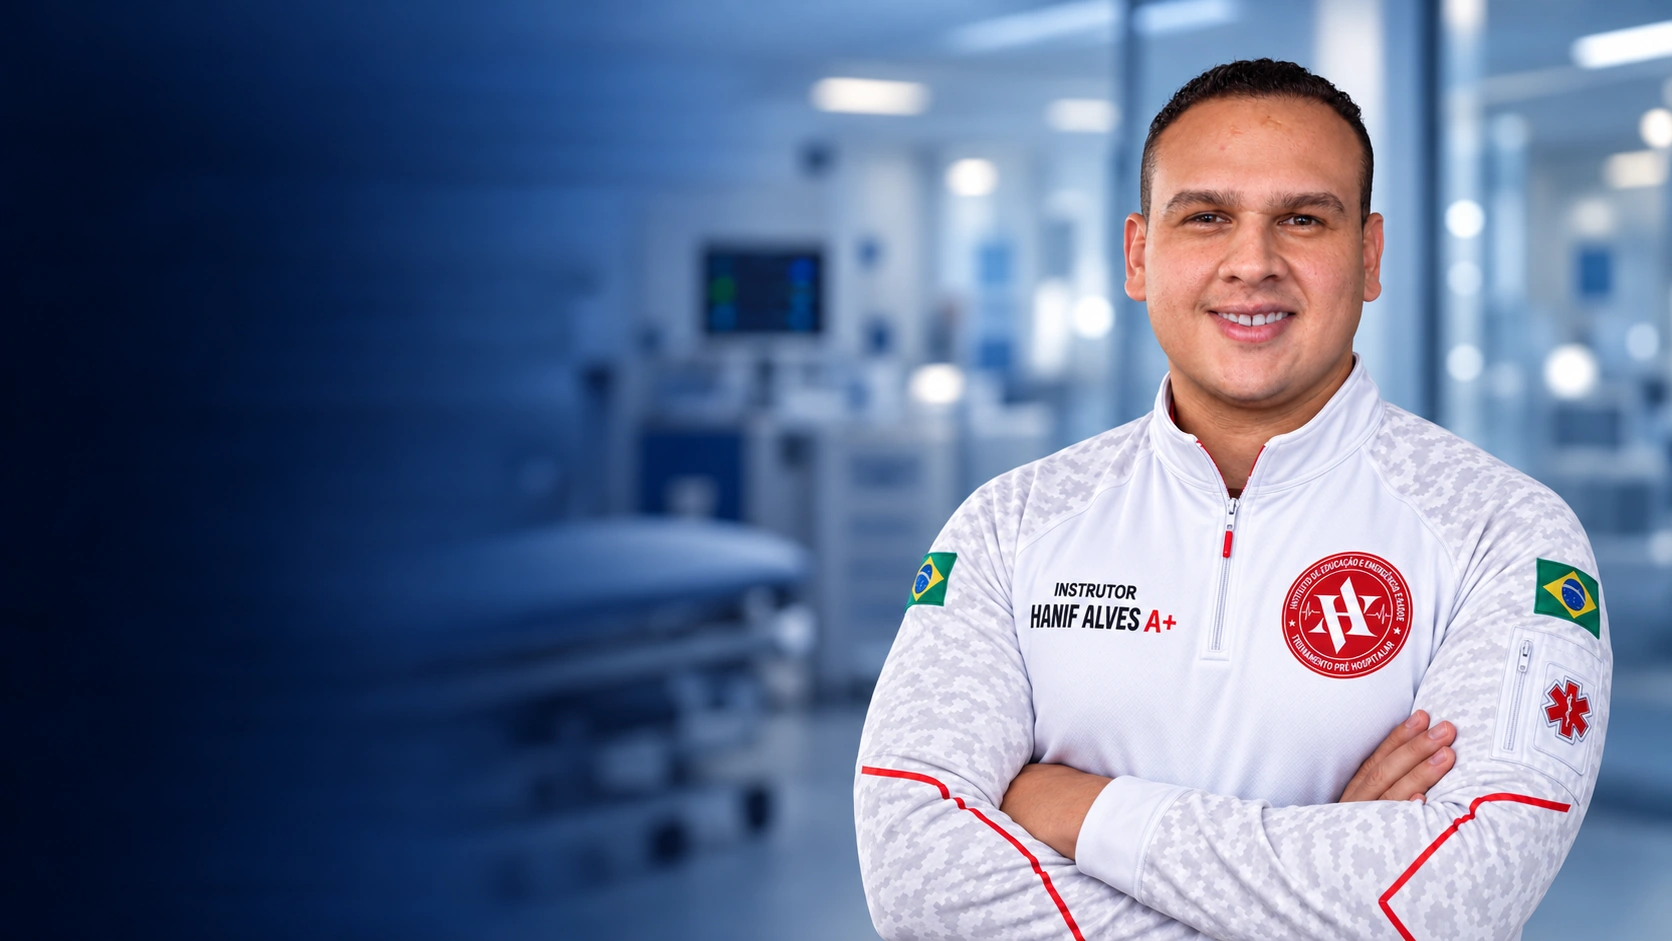
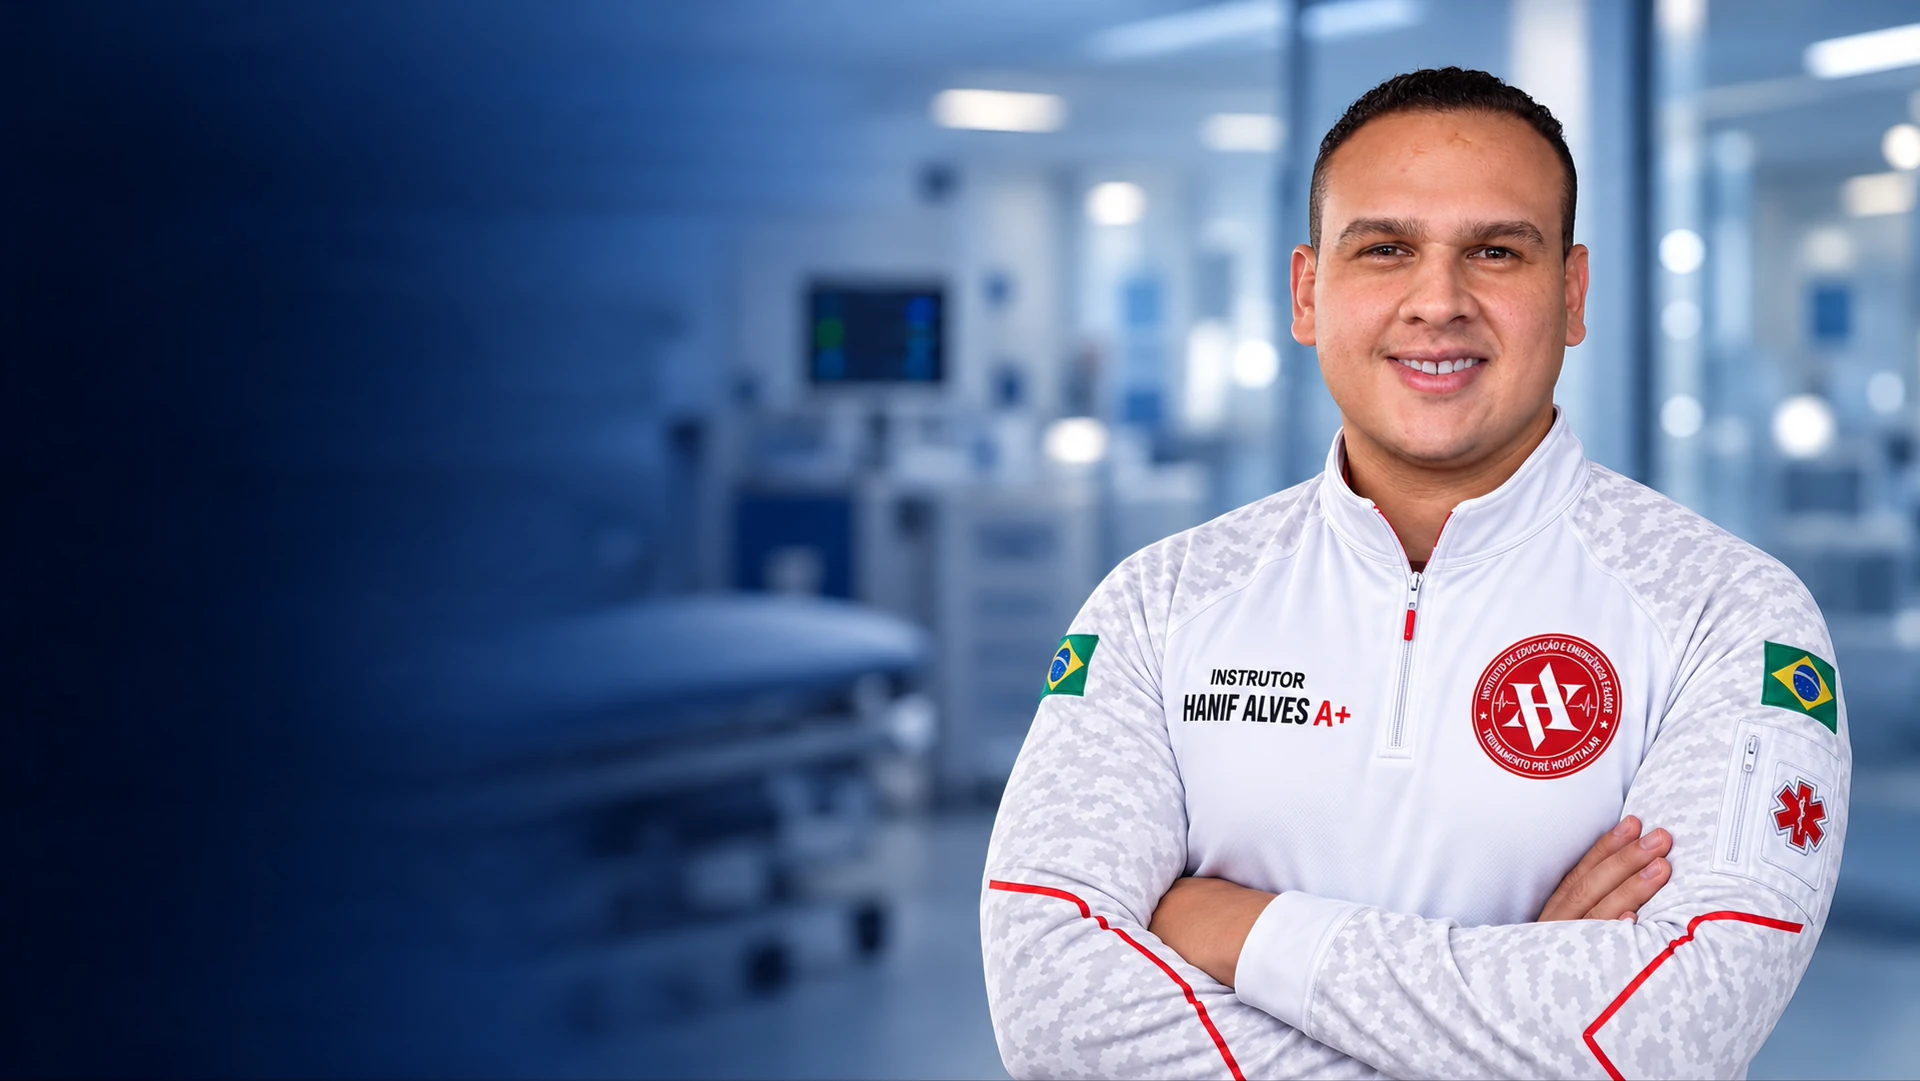
feat: imagem do Hero desktop em alta resolução (1920/3840) sem marca d'água

diff --git a/src/components/site/HeroMedia.jsx b/src/components/site/HeroMedia.jsx
@@ -4,6 +4,8 @@ import { useEffect, useRef, useState } from "react";
 const DESKTOP = {
   video: null,
   poster: "/media/hero/hero-desktop-poster.webp",
+  // Cada tela baixa só o tamanho que precisa (monitor 4K/Retina pega a versão de 3840 px).
+  posterSet: "/media/hero/hero-desktop-poster.webp 1920w, /media/hero/hero-desktop-poster-4k.webp 3840w",
   codec: null,
 };
 const MOBILE = {
@@ -52,6 +54,8 @@ export default function HeroMedia({ alt, hold = false }) {
         <img
           className="site-hero-poster"
           src={asset.poster}
+          srcSet={asset.posterSet}
+          sizes={asset.posterSet ? "100vw" : undefined}
           alt={alt}
           fetchpriority="high"
           decoding="async"
